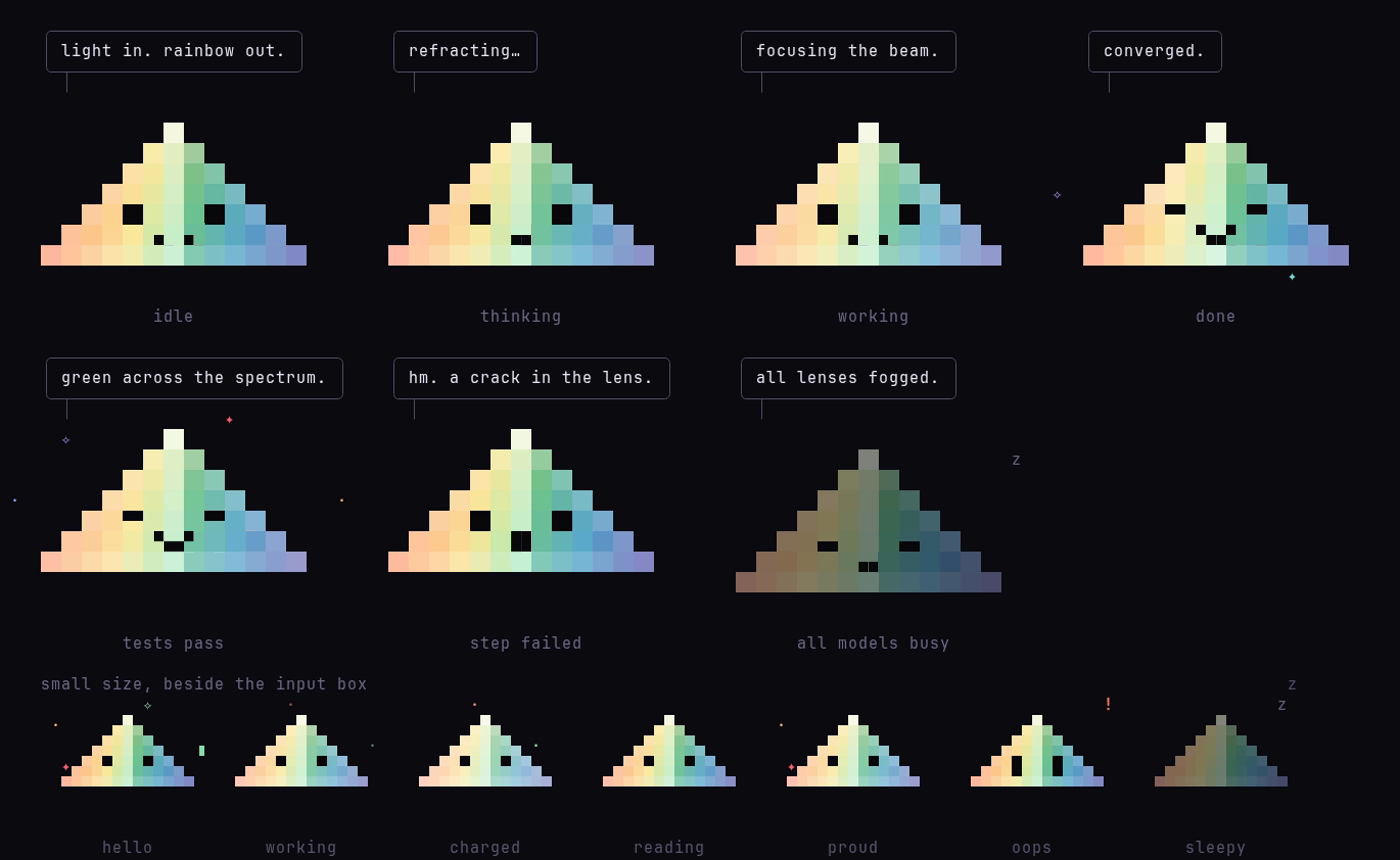
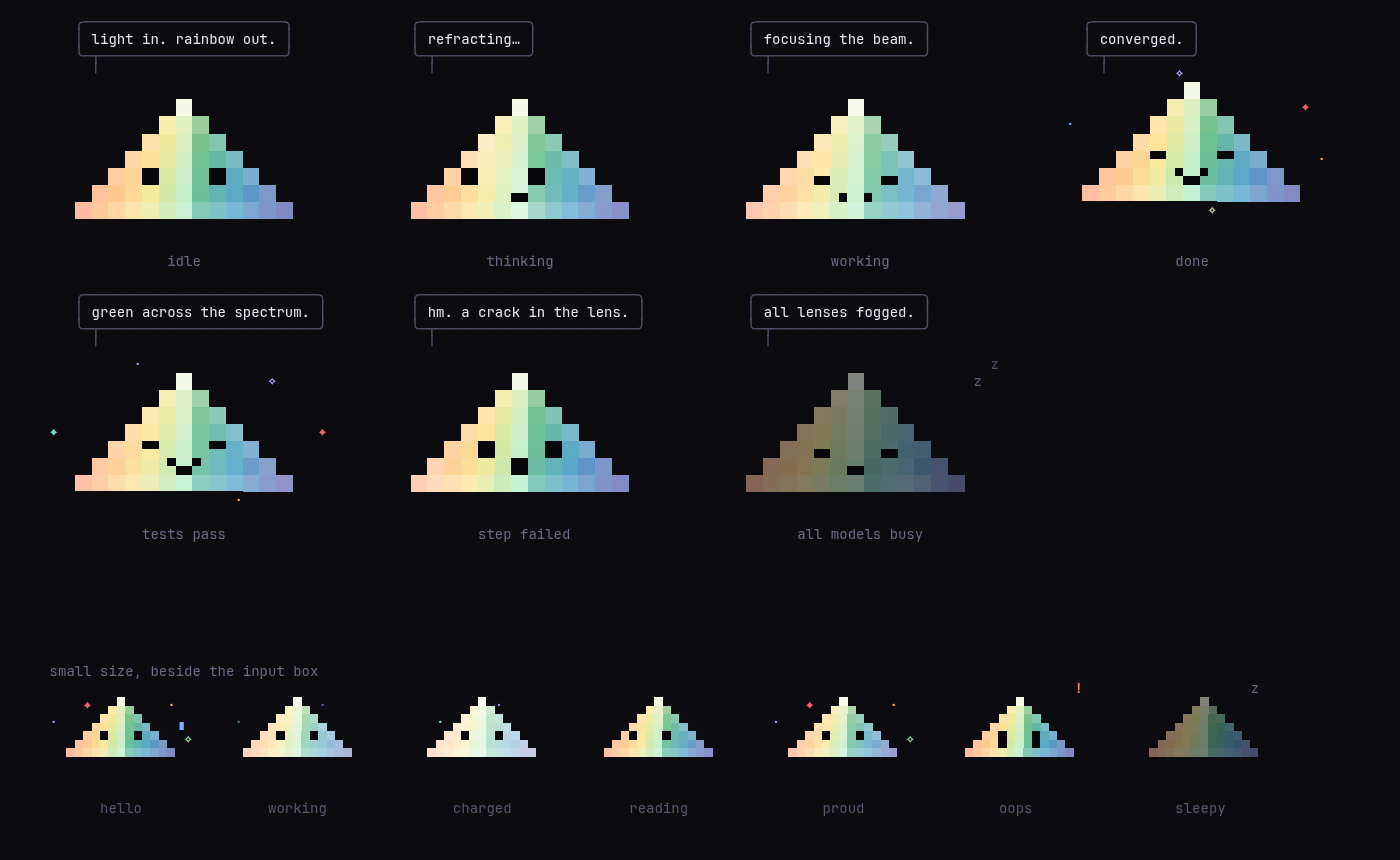
fix(shard): idle Shard has no mouth dots, retake splash and phase pictures
- idle mouth removed; working keeps its two dots so the phases differ
- docs/splash.png and docs/shard.png retaken from the app

diff --git a/cli/shard_test.go b/cli/shard_test.go
@@ -8,7 +8,7 @@ func TestShardMouthCentered(t *testing.T) {
 		md   mood
 		want map[int]rune
 	}{
-		{"idle", moodIdle, map[int]rune{11: '▄', 14: '▄'}},
+		{"idle", moodIdle, map[int]rune{}},
 		{"thinking", moodThinking, map[int]rune{12: '▄', 13: '▄'}},
 		{"working", moodWorking, map[int]rune{11: '▄', 14: '▄'}},
 		{"happy", moodHappy, map[int]rune{11: '▀', 12: '▄', 13: '▄', 14: '▀'}},
@@ -45,7 +45,7 @@ func TestShardMouthCentered(t *testing.T) {
 					t.Errorf("cell %d (%q) not symmetric with cell %d (%q)", i, glyph, 25-i, found[25-i])
 				}
 			}
-			if tc.md == moodIdle || tc.md == moodWorking {
+			if tc.md == moodWorking {
 				for _, i := range []int{12, 13} {
 					if c := cv.get(x+i, y+shardMouthRow); c.ch != '█' || c.fg == dark {
 						t.Errorf("space at cell %d painted over body: %+v", i, *c)

diff --git a/cli/shard.go b/cli/shard.go
@@ -139,7 +139,7 @@ func drawShard(cv *canvas, t theme, x, y int, md mood, n float64) {
 		}
 		cv.set(cx+1, y+shardEyeRow, eye, dark, false)
 	}
-	mouth := map[mood]string{moodIdle: "▄  ▄", moodThinking: "▄▄", moodWorking: "▄  ▄", moodHappy: "▀▄▄▀", moodSleepy: "▄▄", moodSurprised: "██", moodProud: "▀▄▄▀"}[md]
+	mouth := map[mood]string{moodIdle: "", moodThinking: "▄▄", moodWorking: "▄  ▄", moodHappy: "▀▄▄▀", moodSleepy: "▄▄", moodSurprised: "██", moodProud: "▀▄▄▀"}[md]
 	mx := x + 6*2 + 1 - len([]rune(mouth))/2
 	cell := 0
 	for _, r := range mouth {
